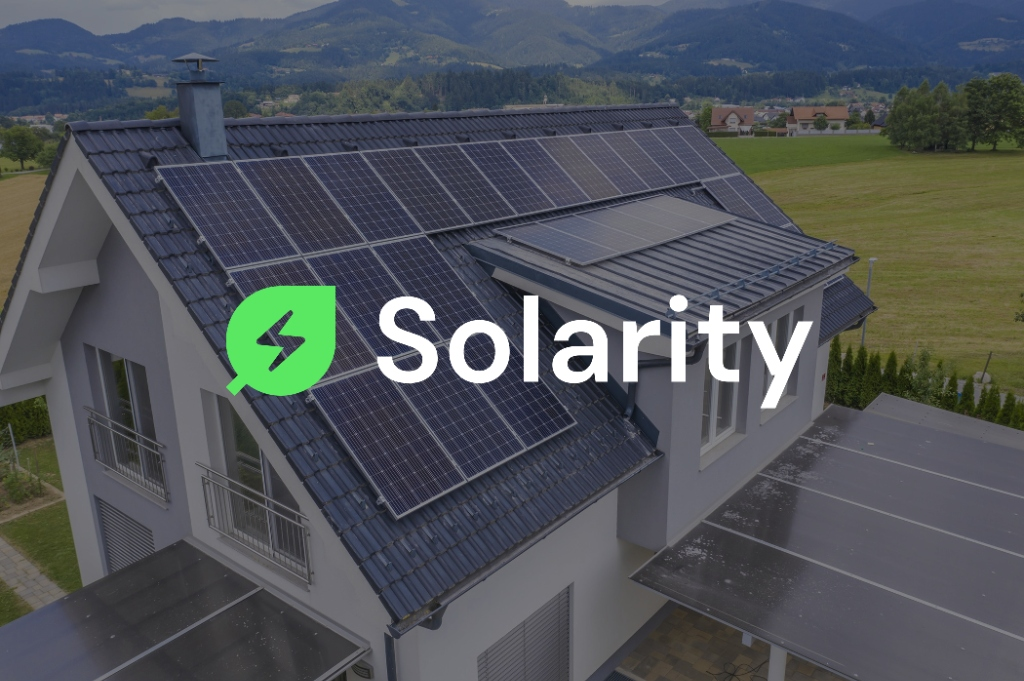
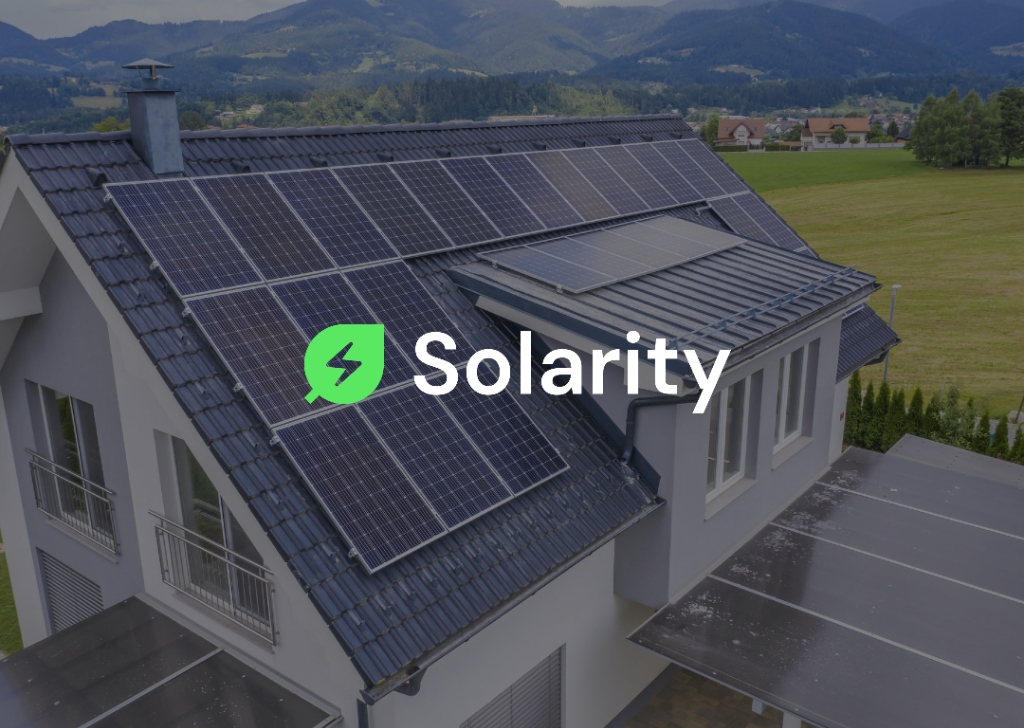
style: revert Solarity image styling for updated thumbnail

diff --git a/index.html b/index.html
@@ -886,7 +886,7 @@
                 style="text-decoration: none; color: inherit; display: block;">
                 <div class="project-img-container">
                     <div class="project-img"
-                        style="background-image: url('assets/solarity-thumb.jpg'); filter: grayscale(0%); background-size: contain; background-repeat: no-repeat; background-position: center;">
+                        style="background-image: url('assets/solarity-thumb.jpg'); filter: grayscale(0%);">
                     </div>
                 </div>
                 <h3 style="font-size: 1.5rem; margin-bottom: 0.5rem;">Solarity - AI Powered Solar Tracker App</h3>

diff --git a/public/index.html b/public/index.html
@@ -886,7 +886,7 @@
                 style="text-decoration: none; color: inherit; display: block;">
                 <div class="project-img-container">
                     <div class="project-img"
-                        style="background-image: url('assets/solarity-thumb.jpg'); filter: grayscale(0%); background-size: contain; background-repeat: no-repeat; background-position: center;">
+                        style="background-image: url('assets/solarity-thumb.jpg'); filter: grayscale(0%);">
                     </div>
                 </div>
                 <h3 style="font-size: 1.5rem; margin-bottom: 0.5rem;">Solarity - AI Powered Solar Tracker App</h3>
